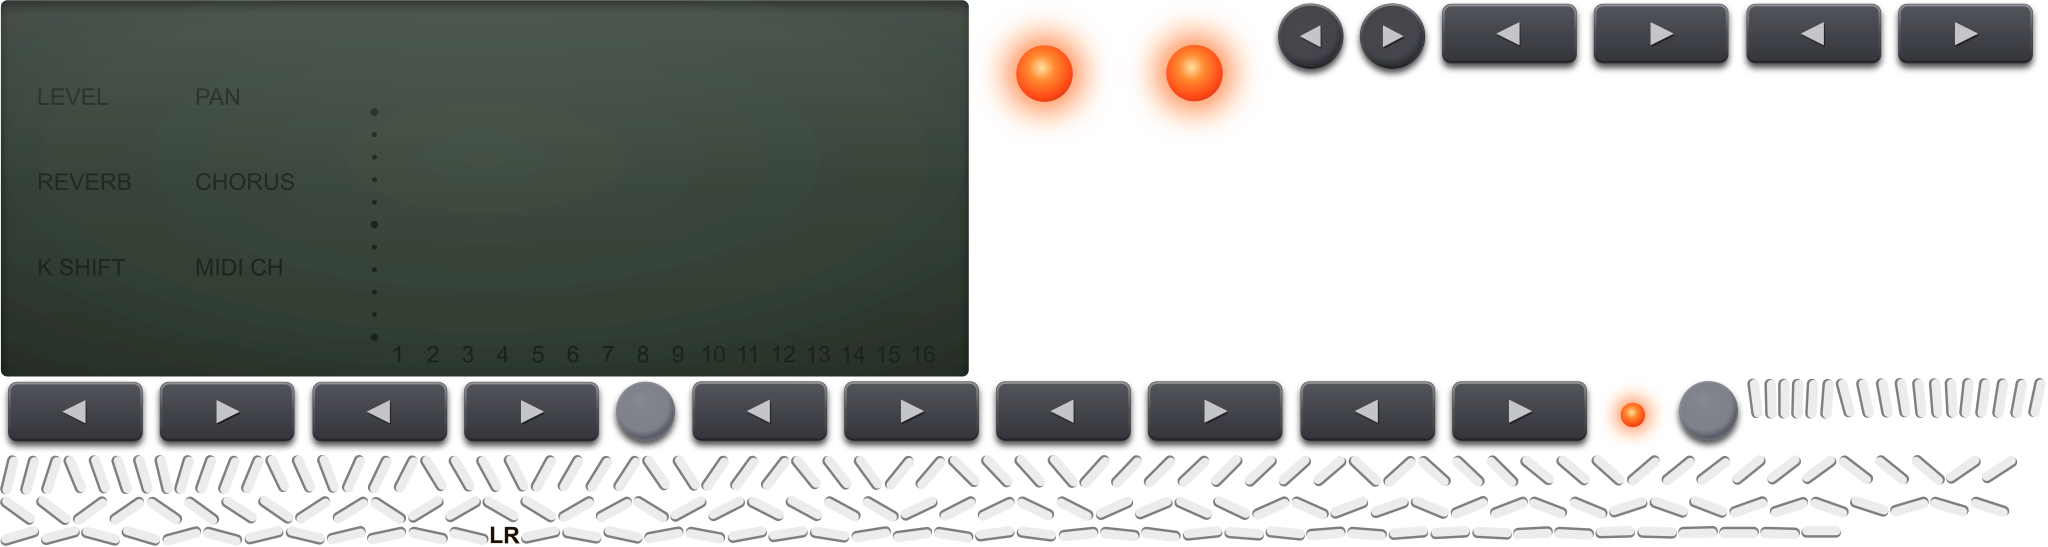
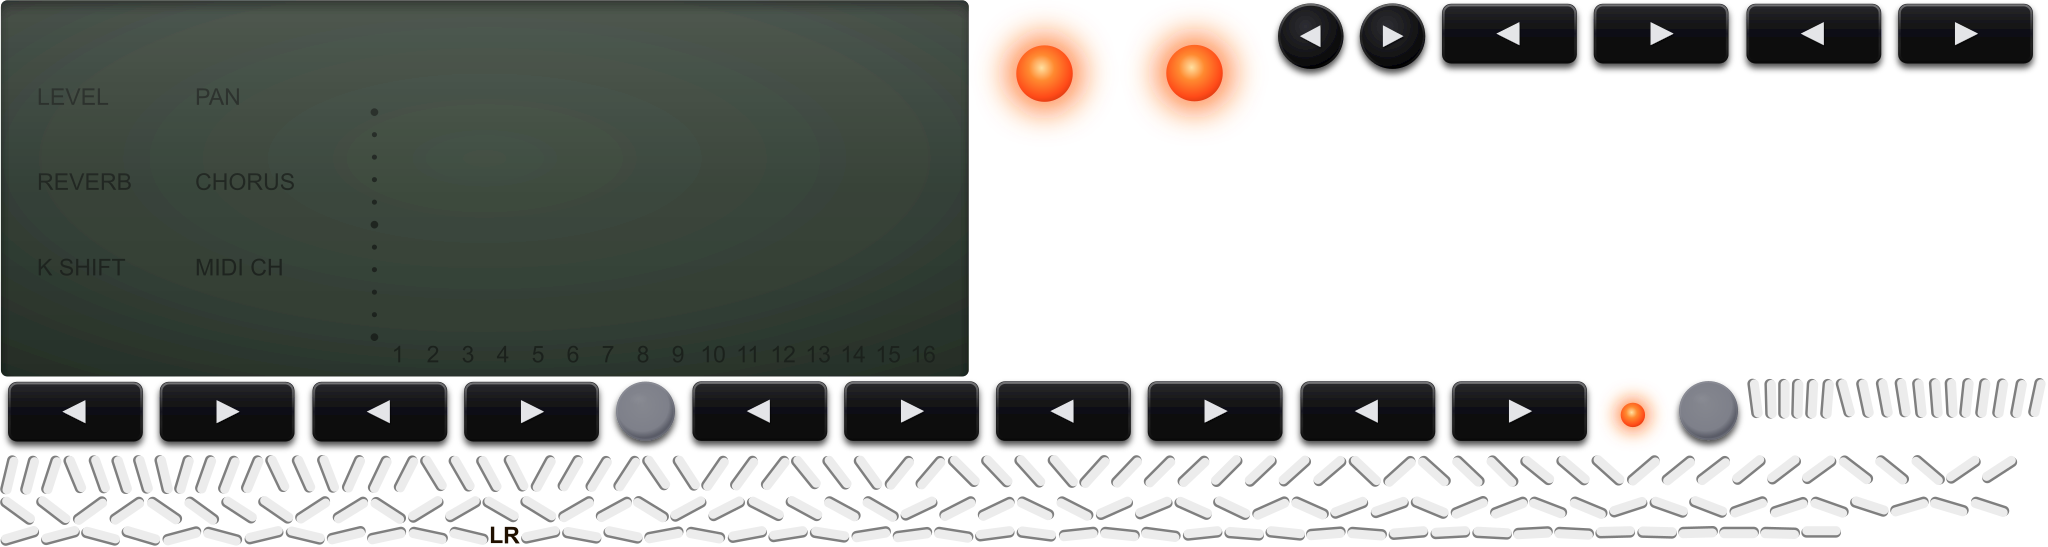
gui: glossy black keys on every panel, the Brush's key block the SC-55's
The module panels' keys were grey rubber caps and the SB-55's glossy
black 10.5 x 4.6 mm keys in a 6.0 mm trough at the drawing's columns,
and the two windows stacked showed it.  Every key is the power key's
black now, and the Brush's block is the SC-55's: its 157.3-216.7 mm
troughs, 5.8 mm tall, and its 10.65 x 4.8 mm keys at its columns, so
the two show one block of keys; the Brush's hit boxes moved with it.

Claude-Session: https://claude.ai/code/session_01KjrtU6uL5o9Vb11hSuHuzk

Changed region(s): [[0.0, 0.6837, 0.7812, 0.808], [0.625, 0.0, 1.0, 0.1243]]

diff --git a/gui/panel_layout.h b/gui/panel_layout.h
@@ -4280,22 +4280,22 @@ static const panel_size_t panel_sizes[PANEL_MODEL_COUNT][PANEL_SIZE_COUNT] = {
 			{ 0, 0, 0, 0 },  /* button-value */
 			{ 248, 110, 816, 162 },  /* disk-slot */
 			{ 866, 229, 144, 35 },  /* button-eject */
-			{ 1311, 44, 82, 36 },  /* button-song-left */
-			{ 1398, 44, 83, 36 },  /* button-song-right */
-			{ 1514, 44, 83, 36 },  /* button-prog */
-			{ 1602, 44, 82, 36 },  /* button-set */
-			{ 1311, 123, 82, 36 },  /* button-tempo-left */
-			{ 1398, 123, 83, 36 },  /* button-tempo-right */
-			{ 1514, 123, 83, 36 },  /* button-rnd */
-			{ 1602, 123, 82, 36 },  /* button-clear */
-			{ 1332, 200, 40, 40 },  /* button-pause */
-			{ 1419, 200, 41, 40 },  /* button-rec */
-			{ 1514, 202, 83, 36 },  /* button-single */
-			{ 1602, 202, 82, 36 },  /* button-rept */
-			{ 1311, 281, 82, 36 },  /* button-stop */
-			{ 1398, 281, 83, 36 },  /* button-play */
-			{ 1514, 281, 83, 36 },  /* button-rew */
-			{ 1602, 281, 82, 36 },  /* button-ff */
+			{ 1299, 43, 84, 38 },  /* button-song-left */
+			{ 1384, 43, 84, 38 },  /* button-song-right */
+			{ 1506, 43, 84, 38 },  /* button-prog */
+			{ 1591, 43, 84, 38 },  /* button-set */
+			{ 1299, 122, 84, 38 },  /* button-tempo-left */
+			{ 1384, 122, 84, 38 },  /* button-tempo-right */
+			{ 1506, 122, 84, 38 },  /* button-rnd */
+			{ 1591, 122, 84, 38 },  /* button-clear */
+			{ 1321, 200, 40, 40 },  /* button-pause */
+			{ 1406, 200, 41, 40 },  /* button-rec */
+			{ 1506, 201, 84, 38 },  /* button-single */
+			{ 1591, 201, 84, 38 },  /* button-rept */
+			{ 1299, 280, 84, 37 },  /* button-stop */
+			{ 1384, 280, 84, 37 },  /* button-play */
+			{ 1506, 280, 84, 37 },  /* button-rew */
+			{ 1591, 280, 84, 37 },  /* button-ff */
 		},
 		{
 			{ { 0, 0, 0, 0 }, 0, 0 },  /* led-all */
@@ -4340,7 +4340,7 @@ static const panel_size_t panel_sizes[PANEL_MODEL_COUNT][PANEL_SIZE_COUNT] = {
 			{ { 0, 0, 0, 0 }, 0, 0 },  /* button-edit3-left */
 			{ { 0, 0, 0, 0 }, 0, 0 },  /* button-edit3-right */
 			{ { 0, 0, 0, 0 }, 0, 0 },  /* button-preview */
-			{ { 445, 0, 48, 46 }, 176, 50 },  /* led-standby */
+			{ { 1787, 0, 48, 46 }, 176, 50 },  /* led-standby */
 			{ { 0, 0, 0, 0 }, 0, 0 },  /* led-solo */
 			{ { 0, 0, 0, 0 }, 0, 0 },  /* led-edit */
 			{ { 0, 0, 0, 0 }, 0, 0 },  /* led-drum */
@@ -4373,56 +4373,56 @@ static const panel_size_t panel_sizes[PANEL_MODEL_COUNT][PANEL_SIZE_COUNT] = {
 			{ { 0, 0, 0, 0 }, 0, 0 },  /* led-part-b2 */
 			{ { 0, 0, 0, 0 }, 0, 0 },  /* led-part-b3 */
 			{ { 0, 0, 0, 0 }, 0, 0 },  /* led-part-b4 */
-			{ { 1652, 52, 16, 18 }, 1344, 211 },  /* led-pause */
-			{ { 1669, 52, 19, 18 }, 1430, 211 },  /* led-rec */
-			{ { 1123, 52, 40, 38 }, 1419, 280 },  /* led-play */
-			{ { 105, 0, 84, 48 }, 1514, 38 },  /* led-prog */
-			{ { 190, 0, 84, 48 }, 1514, 117 },  /* led-rnd */
-			{ { 275, 0, 84, 48 }, 1514, 196 },  /* led-single */
-			{ { 360, 0, 84, 48 }, 1601, 196 },  /* led-rept */
-			{ { 494, 0, 47, 46 }, 1103, 225 },  /* led-disk */
-			{ { 542, 0, 744, 46 }, 284, 142 },  /* slot-disk */
-			{ { 1164, 52, 43, 28 }, 1098, 60 },  /* digit2-a */
-			{ { 759, 52, 29, 41 }, 1120, 66 },  /* digit2-b */
-			{ { 789, 52, 29, 41 }, 1116, 93 },  /* digit2-c */
-			{ { 1208, 52, 43, 28 }, 1091, 112 },  /* digit2-d */
-			{ { 819, 52, 29, 41 }, 1083, 93 },  /* digit2-e */
-			{ { 849, 52, 29, 41 }, 1087, 66 },  /* digit2-f */
-			{ { 1252, 52, 44, 28 }, 1094, 86 },  /* digit2-g */
-			{ { 1297, 52, 44, 28 }, 1147, 60 },  /* digit1-a */
-			{ { 879, 52, 30, 41 }, 1169, 66 },  /* digit1-b */
-			{ { 910, 52, 29, 41 }, 1166, 93 },  /* digit1-c */
-			{ { 1342, 52, 44, 28 }, 1140, 112 },  /* digit1-d */
-			{ { 940, 52, 30, 41 }, 1132, 93 },  /* digit1-e */
-			{ { 971, 52, 30, 41 }, 1136, 66 },  /* digit1-f */
-			{ { 1387, 52, 44, 28 }, 1144, 86 },  /* digit1-g */
-			{ { 1432, 52, 44, 28 }, 1197, 60 },  /* digit0-a */
-			{ { 1002, 52, 29, 41 }, 1219, 66 },  /* digit0-b */
-			{ { 1032, 52, 30, 41 }, 1215, 93 },  /* digit0-c */
-			{ { 1477, 52, 44, 28 }, 1190, 112 },  /* digit0-d */
-			{ { 1063, 52, 29, 41 }, 1182, 93 },  /* digit0-e */
-			{ { 1093, 52, 29, 41 }, 1186, 66 },  /* digit0-f */
-			{ { 1522, 52, 44, 28 }, 1193, 86 },  /* digit0-g */
-			{ { 1567, 52, 27, 28 }, 1086, 60 },  /* digit2-dp */
-			{ { 1595, 52, 28, 28 }, 1135, 60 },  /* digit1-dp */
-			{ { 1624, 52, 27, 28 }, 1185, 60 },  /* digit0-dp */
-			{ { 1287, 0, 155, 46 }, 861, 226 },  /* button-eject */
-			{ { 1443, 0, 94, 46 }, 1305, 42 },  /* button-song-left */
-			{ { 1538, 0, 93, 46 }, 1393, 42 },  /* button-song-right */
-			{ { 1632, 0, 94, 46 }, 1509, 42 },  /* button-prog */
-			{ { 1727, 0, 94, 46 }, 1596, 42 },  /* button-set */
-			{ { 1822, 0, 94, 46 }, 1305, 121 },  /* button-tempo-left */
-			{ { 1917, 0, 93, 46 }, 1393, 121 },  /* button-tempo-right */
-			{ { 0, 52, 94, 46 }, 1509, 121 },  /* button-rnd */
-			{ { 95, 52, 94, 46 }, 1596, 121 },  /* button-clear */
-			{ { 0, 0, 52, 51 }, 1326, 197 },  /* button-pause */
-			{ { 53, 0, 51, 51 }, 1414, 197 },  /* button-rec */
-			{ { 190, 52, 94, 46 }, 1509, 200 },  /* button-single */
-			{ { 285, 52, 94, 46 }, 1596, 200 },  /* button-rept */
-			{ { 380, 52, 94, 46 }, 1305, 279 },  /* button-stop */
-			{ { 475, 52, 93, 46 }, 1393, 279 },  /* button-play */
-			{ { 569, 52, 94, 46 }, 1509, 279 },  /* button-rew */
-			{ { 664, 52, 94, 46 }, 1596, 279 },  /* button-ff */
+			{ { 1793, 52, 16, 18 }, 1333, 211 },  /* led-pause */
+			{ { 1810, 52, 18, 18 }, 1417, 211 },  /* led-rec */
+			{ { 1265, 52, 39, 38 }, 1406, 280 },  /* led-play */
+			{ { 106, 0, 84, 48 }, 1506, 38 },  /* led-prog */
+			{ { 191, 0, 84, 48 }, 1506, 117 },  /* led-rnd */
+			{ { 276, 0, 84, 48 }, 1506, 196 },  /* led-single */
+			{ { 361, 0, 84, 48 }, 1591, 196 },  /* led-rept */
+			{ { 1836, 0, 47, 46 }, 1103, 225 },  /* led-disk */
+			{ { 0, 52, 744, 46 }, 284, 142 },  /* slot-disk */
+			{ { 1305, 52, 43, 28 }, 1098, 60 },  /* digit2-a */
+			{ { 901, 52, 29, 41 }, 1120, 66 },  /* digit2-b */
+			{ { 931, 52, 29, 41 }, 1116, 93 },  /* digit2-c */
+			{ { 1349, 52, 43, 28 }, 1091, 112 },  /* digit2-d */
+			{ { 961, 52, 29, 41 }, 1083, 93 },  /* digit2-e */
+			{ { 991, 52, 29, 41 }, 1087, 66 },  /* digit2-f */
+			{ { 1393, 52, 44, 28 }, 1094, 86 },  /* digit2-g */
+			{ { 1438, 52, 44, 28 }, 1147, 60 },  /* digit1-a */
+			{ { 1021, 52, 30, 41 }, 1169, 66 },  /* digit1-b */
+			{ { 1052, 52, 29, 41 }, 1166, 93 },  /* digit1-c */
+			{ { 1483, 52, 44, 28 }, 1140, 112 },  /* digit1-d */
+			{ { 1082, 52, 30, 41 }, 1132, 93 },  /* digit1-e */
+			{ { 1113, 52, 30, 41 }, 1136, 66 },  /* digit1-f */
+			{ { 1528, 52, 44, 28 }, 1144, 86 },  /* digit1-g */
+			{ { 1573, 52, 44, 28 }, 1197, 60 },  /* digit0-a */
+			{ { 1144, 52, 29, 41 }, 1219, 66 },  /* digit0-b */
+			{ { 1174, 52, 30, 41 }, 1215, 93 },  /* digit0-c */
+			{ { 1618, 52, 44, 28 }, 1190, 112 },  /* digit0-d */
+			{ { 1205, 52, 29, 41 }, 1182, 93 },  /* digit0-e */
+			{ { 1235, 52, 29, 41 }, 1186, 66 },  /* digit0-f */
+			{ { 1663, 52, 44, 28 }, 1193, 86 },  /* digit0-g */
+			{ { 1708, 52, 27, 28 }, 1086, 60 },  /* digit2-dp */
+			{ { 1736, 52, 28, 28 }, 1135, 60 },  /* digit1-dp */
+			{ { 1765, 52, 27, 28 }, 1185, 60 },  /* digit0-dp */
+			{ { 745, 52, 155, 46 }, 861, 226 },  /* button-eject */
+			{ { 446, 0, 94, 48 }, 1294, 41 },  /* button-song-left */
+			{ { 541, 0, 95, 48 }, 1379, 41 },  /* button-song-right */
+			{ { 637, 0, 95, 48 }, 1501, 41 },  /* button-prog */
+			{ { 733, 0, 95, 48 }, 1586, 41 },  /* button-set */
+			{ { 829, 0, 94, 48 }, 1294, 120 },  /* button-tempo-left */
+			{ { 924, 0, 95, 48 }, 1379, 120 },  /* button-tempo-right */
+			{ { 1020, 0, 95, 48 }, 1501, 120 },  /* button-rnd */
+			{ { 1116, 0, 95, 48 }, 1586, 120 },  /* button-clear */
+			{ { 0, 0, 52, 51 }, 1315, 197 },  /* button-pause */
+			{ { 53, 0, 52, 51 }, 1400, 197 },  /* button-rec */
+			{ { 1212, 0, 95, 48 }, 1501, 199 },  /* button-single */
+			{ { 1308, 0, 95, 48 }, 1586, 199 },  /* button-rept */
+			{ { 1404, 0, 94, 48 }, 1294, 278 },  /* button-stop */
+			{ { 1499, 0, 95, 48 }, 1379, 278 },  /* button-play */
+			{ { 1595, 0, 95, 48 }, 1501, 278 },  /* button-rew */
+			{ { 1691, 0, 95, 48 }, 1586, 278 },  /* button-ff */
 		},
 		{
 			{ { 0, 0, 0, 0 }, 0, 0 }, { { 0, 0, 0, 0 }, 0, 0 }, { { 0, 0, 0, 0 }, 0, 0 },
@@ -4560,22 +4560,22 @@ static const panel_size_t panel_sizes[PANEL_MODEL_COUNT][PANEL_SIZE_COUNT] = {
 			{ 0, 0, 0, 0 },  /* button-value */
 			{ 496, 219, 1632, 325 },  /* disk-slot */
 			{ 1733, 458, 288, 70 },  /* button-eject */
-			{ 2621, 88, 166, 72 },  /* button-song-left */
-			{ 2796, 88, 165, 72 },  /* button-song-right */
-			{ 3029, 88, 165, 72 },  /* button-prog */
-			{ 3203, 88, 166, 72 },  /* button-set */
-			{ 2621, 246, 166, 72 },  /* button-tempo-left */
-			{ 2796, 246, 165, 72 },  /* button-tempo-right */
-			{ 3029, 246, 165, 72 },  /* button-rnd */
-			{ 3203, 246, 166, 72 },  /* button-clear */
-			{ 2663, 399, 82, 82 },  /* button-pause */
-			{ 2838, 399, 81, 82 },  /* button-rec */
-			{ 3029, 404, 165, 71 },  /* button-single */
-			{ 3203, 404, 166, 71 },  /* button-rept */
-			{ 2621, 562, 166, 71 },  /* button-stop */
-			{ 2796, 562, 165, 71 },  /* button-play */
-			{ 3029, 562, 165, 71 },  /* button-rew */
-			{ 3203, 562, 166, 71 },  /* button-ff */
+			{ 2598, 87, 168, 74 },  /* button-song-left */
+			{ 2768, 87, 168, 74 },  /* button-song-right */
+			{ 3012, 87, 168, 74 },  /* button-prog */
+			{ 3183, 87, 168, 74 },  /* button-set */
+			{ 2598, 245, 168, 74 },  /* button-tempo-left */
+			{ 2768, 245, 168, 74 },  /* button-tempo-right */
+			{ 3012, 245, 168, 74 },  /* button-rnd */
+			{ 3183, 245, 168, 74 },  /* button-clear */
+			{ 2641, 399, 82, 82 },  /* button-pause */
+			{ 2812, 399, 81, 82 },  /* button-rec */
+			{ 3012, 403, 168, 74 },  /* button-single */
+			{ 3183, 403, 168, 74 },  /* button-rept */
+			{ 2598, 561, 168, 74 },  /* button-stop */
+			{ 2768, 561, 168, 74 },  /* button-play */
+			{ 3012, 561, 168, 74 },  /* button-rew */
+			{ 3183, 561, 168, 74 },  /* button-ff */
 		},
 		{
 			{ { 0, 0, 0, 0 }, 0, 0 },  /* led-all */
@@ -4620,7 +4620,7 @@ static const panel_size_t panel_sizes[PANEL_MODEL_COUNT][PANEL_SIZE_COUNT] = {
 			{ { 0, 0, 0, 0 }, 0, 0 },  /* button-edit3-left */
 			{ { 0, 0, 0, 0 }, 0, 0 },  /* button-edit3-right */
 			{ { 0, 0, 0, 0 }, 0, 0 },  /* button-preview */
-			{ { 969, 0, 92, 91 }, 354, 100 },  /* led-standby */
+			{ { 3629, 0, 92, 91 }, 354, 100 },  /* led-standby */
 			{ { 0, 0, 0, 0 }, 0, 0 },  /* led-solo */
 			{ { 0, 0, 0, 0 }, 0, 0 },  /* led-edit */
 			{ { 0, 0, 0, 0 }, 0, 0 },  /* led-drum */
@@ -4653,56 +4653,56 @@ static const panel_size_t panel_sizes[PANEL_MODEL_COUNT][PANEL_SIZE_COUNT] = {
 			{ { 0, 0, 0, 0 }, 0, 0 },  /* led-part-b2 */
 			{ { 0, 0, 0, 0 }, 0, 0 },  /* led-part-b3 */
 			{ { 0, 0, 0, 0 }, 0, 0 },  /* led-part-b4 */
-			{ { 3270, 102, 31, 36 }, 2688, 422 },  /* led-pause */
-			{ { 3302, 102, 37, 36 }, 2860, 422 },  /* led-rec */
-			{ { 2225, 102, 77, 76 }, 2839, 560 },  /* led-play */
-			{ { 207, 0, 166, 94 }, 3029, 77 },  /* led-prog */
-			{ { 374, 0, 166, 94 }, 3029, 235 },  /* led-rnd */
-			{ { 541, 0, 166, 94 }, 3029, 393 },  /* led-single */
-			{ { 708, 0, 166, 94 }, 3203, 393 },  /* led-rept */
-			{ { 875, 0, 93, 92 }, 2206, 450 },  /* led-disk */
-			{ { 1062, 0, 1488, 91 }, 568, 284 },  /* slot-disk */
-			{ { 2569, 102, 88, 55 }, 2195, 120 },  /* digit2-a */
-			{ { 1500, 102, 60, 80 }, 2239, 134 },  /* digit2-b */
-			{ { 1561, 102, 59, 80 }, 2232, 186 },  /* digit2-c */
-			{ { 2658, 102, 88, 55 }, 2181, 225 },  /* digit2-d */
-			{ { 1621, 102, 60, 80 }, 2165, 186 },  /* digit2-e */
-			{ { 1682, 102, 59, 80 }, 2173, 134 },  /* digit2-f */
-			{ { 2303, 102, 88, 56 }, 2188, 172 },  /* digit2-g */
-			{ { 2747, 102, 88, 55 }, 2295, 120 },  /* digit1-a */
-			{ { 1742, 102, 60, 80 }, 2338, 134 },  /* digit1-b */
-			{ { 1803, 102, 59, 80 }, 2331, 186 },  /* digit1-c */
-			{ { 2836, 102, 88, 55 }, 2280, 225 },  /* digit1-d */
-			{ { 1863, 102, 59, 80 }, 2265, 186 },  /* digit1-e */
-			{ { 1923, 102, 59, 80 }, 2272, 134 },  /* digit1-f */
-			{ { 2392, 102, 88, 56 }, 2287, 172 },  /* digit1-g */
-			{ { 2925, 102, 88, 55 }, 2394, 120 },  /* digit0-a */
-			{ { 1983, 102, 59, 80 }, 2438, 134 },  /* digit0-b */
-			{ { 2043, 102, 60, 80 }, 2430, 186 },  /* digit0-c */
-			{ { 3014, 102, 88, 55 }, 2379, 225 },  /* digit0-d */
-			{ { 2104, 102, 59, 80 }, 2364, 186 },  /* digit0-e */
-			{ { 2164, 102, 60, 80 }, 2371, 134 },  /* digit0-f */
-			{ { 2481, 102, 87, 56 }, 2387, 172 },  /* digit0-g */
-			{ { 3103, 102, 55, 54 }, 2171, 121 },  /* digit2-dp */
-			{ { 3159, 102, 54, 54 }, 2271, 121 },  /* digit1-dp */
-			{ { 3214, 102, 55, 54 }, 2370, 121 },  /* digit0-dp */
-			{ { 2551, 0, 309, 91 }, 1722, 453 },  /* button-eject */
-			{ { 2861, 0, 186, 91 }, 2611, 84 },  /* button-song-left */
-			{ { 3048, 0, 187, 91 }, 2785, 84 },  /* button-song-right */
-			{ { 3236, 0, 187, 91 }, 3018, 84 },  /* button-prog */
-			{ { 3424, 0, 186, 91 }, 3193, 84 },  /* button-set */
-			{ { 3611, 0, 186, 91 }, 2611, 242 },  /* button-tempo-left */
-			{ { 3798, 0, 187, 91 }, 2785, 242 },  /* button-tempo-right */
-			{ { 0, 102, 187, 91 }, 3018, 242 },  /* button-rnd */
-			{ { 188, 102, 186, 91 }, 3193, 242 },  /* button-clear */
-			{ { 0, 0, 102, 101 }, 2653, 395 },  /* button-pause */
-			{ { 103, 0, 103, 101 }, 2827, 395 },  /* button-rec */
-			{ { 375, 102, 187, 91 }, 3018, 400 },  /* button-single */
-			{ { 563, 102, 186, 91 }, 3193, 400 },  /* button-rept */
-			{ { 750, 102, 186, 91 }, 2611, 558 },  /* button-stop */
-			{ { 937, 102, 187, 91 }, 2785, 558 },  /* button-play */
-			{ { 1125, 102, 187, 91 }, 3018, 558 },  /* button-rew */
-			{ { 1313, 102, 186, 91 }, 3193, 558 },  /* button-ff */
+			{ { 3569, 102, 31, 36 }, 2666, 422 },  /* led-pause */
+			{ { 3601, 102, 36, 36 }, 2834, 422 },  /* led-rec */
+			{ { 2524, 102, 77, 76 }, 2813, 560 },  /* led-play */
+			{ { 2864, 0, 167, 94 }, 3013, 77 },  /* led-prog */
+			{ { 3032, 0, 167, 94 }, 3013, 235 },  /* led-rnd */
+			{ { 3200, 0, 167, 94 }, 3013, 393 },  /* led-single */
+			{ { 3368, 0, 166, 94 }, 3184, 393 },  /* led-rept */
+			{ { 3535, 0, 93, 92 }, 2206, 450 },  /* led-disk */
+			{ { 0, 102, 1488, 91 }, 568, 284 },  /* slot-disk */
+			{ { 2868, 102, 88, 55 }, 2195, 120 },  /* digit2-a */
+			{ { 1799, 102, 60, 80 }, 2239, 134 },  /* digit2-b */
+			{ { 1860, 102, 59, 80 }, 2232, 186 },  /* digit2-c */
+			{ { 2957, 102, 88, 55 }, 2181, 225 },  /* digit2-d */
+			{ { 1920, 102, 60, 80 }, 2165, 186 },  /* digit2-e */
+			{ { 1981, 102, 59, 80 }, 2173, 134 },  /* digit2-f */
+			{ { 2602, 102, 88, 56 }, 2188, 172 },  /* digit2-g */
+			{ { 3046, 102, 88, 55 }, 2295, 120 },  /* digit1-a */
+			{ { 2041, 102, 60, 80 }, 2338, 134 },  /* digit1-b */
+			{ { 2102, 102, 59, 80 }, 2331, 186 },  /* digit1-c */
+			{ { 3135, 102, 88, 55 }, 2280, 225 },  /* digit1-d */
+			{ { 2162, 102, 59, 80 }, 2265, 186 },  /* digit1-e */
+			{ { 2222, 102, 59, 80 }, 2272, 134 },  /* digit1-f */
+			{ { 2691, 102, 88, 56 }, 2287, 172 },  /* digit1-g */
+			{ { 3224, 102, 88, 55 }, 2394, 120 },  /* digit0-a */
+			{ { 2282, 102, 59, 80 }, 2438, 134 },  /* digit0-b */
+			{ { 2342, 102, 60, 80 }, 2430, 186 },  /* digit0-c */
+			{ { 3313, 102, 88, 55 }, 2379, 225 },  /* digit0-d */
+			{ { 2403, 102, 59, 80 }, 2364, 186 },  /* digit0-e */
+			{ { 2463, 102, 60, 80 }, 2371, 134 },  /* digit0-f */
+			{ { 2780, 102, 87, 56 }, 2387, 172 },  /* digit0-g */
+			{ { 3402, 102, 55, 54 }, 2171, 121 },  /* digit2-dp */
+			{ { 3458, 102, 54, 54 }, 2271, 121 },  /* digit1-dp */
+			{ { 3513, 102, 55, 54 }, 2370, 121 },  /* digit0-dp */
+			{ { 1489, 102, 309, 91 }, 1722, 453 },  /* button-eject */
+			{ { 207, 0, 188, 95 }, 2588, 82 },  /* button-song-left */
+			{ { 396, 0, 189, 95 }, 2758, 82 },  /* button-song-right */
+			{ { 586, 0, 189, 95 }, 3002, 82 },  /* button-prog */
+			{ { 776, 0, 189, 95 }, 3172, 82 },  /* button-set */
+			{ { 966, 0, 188, 95 }, 2588, 240 },  /* button-tempo-left */
+			{ { 1155, 0, 189, 95 }, 2758, 240 },  /* button-tempo-right */
+			{ { 1345, 0, 189, 95 }, 3002, 240 },  /* button-rnd */
+			{ { 1535, 0, 189, 95 }, 3172, 240 },  /* button-clear */
+			{ { 0, 0, 102, 101 }, 2631, 395 },  /* button-pause */
+			{ { 103, 0, 103, 101 }, 2801, 395 },  /* button-rec */
+			{ { 1725, 0, 189, 95 }, 3002, 398 },  /* button-single */
+			{ { 1915, 0, 189, 95 }, 3172, 398 },  /* button-rept */
+			{ { 2105, 0, 188, 95 }, 2588, 556 },  /* button-stop */
+			{ { 2294, 0, 189, 95 }, 2758, 556 },  /* button-play */
+			{ { 2484, 0, 189, 95 }, 3002, 556 },  /* button-rew */
+			{ { 2674, 0, 189, 95 }, 3172, 556 },  /* button-ff */
 		},
 		{
 			{ { 0, 0, 0, 0 }, 0, 0 }, { { 0, 0, 0, 0 }, 0, 0 }, { { 0, 0, 0, 0 }, 0, 0 },
